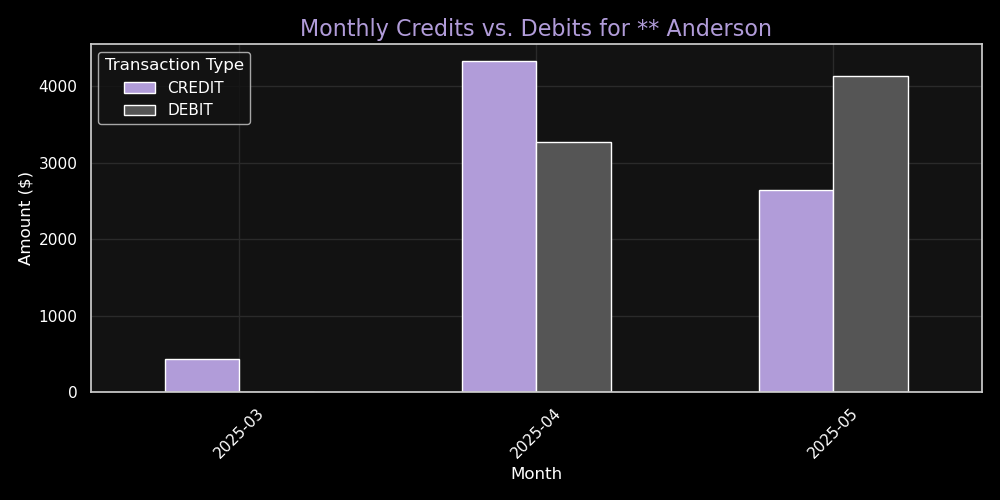
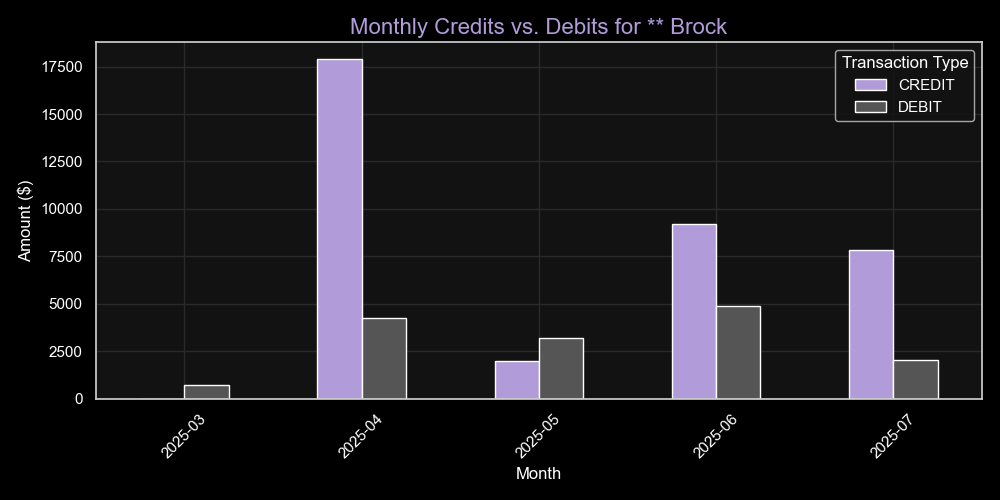
added visualisations

diff --git a/main.py b/main.py
@@ -405,7 +405,7 @@ elif st.session_state.selected_section == "Assessment Results":
             st.markdown("---")
             st.subheader("Visual Analysis")
             st.write("_A visual breakdown of the client's financial health, demonstrating key trends and areas of risk._")
-            st.image("https://placehold.co/1000x500/000000/917cb9?text=Portfolio+Breakdown+Chart", use_container_width=True)
+            st.image(results['chart_path'], use_container_width=True)
 
             st.markdown("---")
             st.subheader("AI-Generated Insights & Recommendations")
